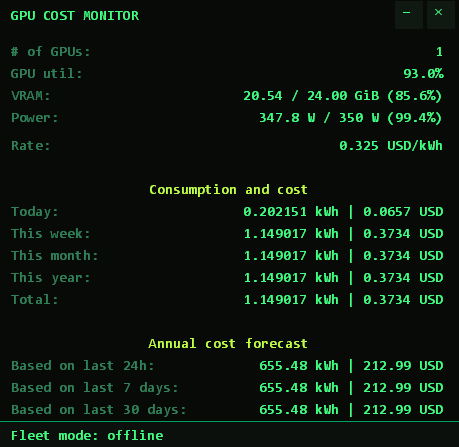
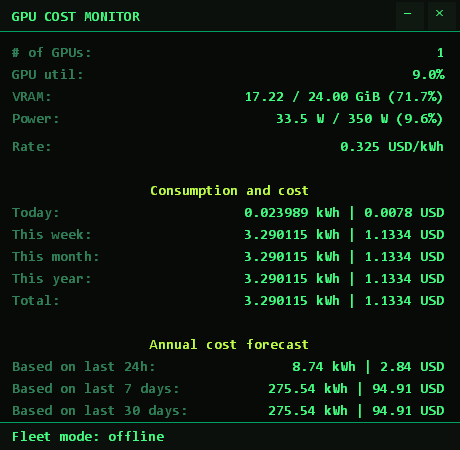
Add files via upload

diff --git a/README.md b/README.md
@@ -1,16 +1,8 @@
 # GPU Cost Monitor
 
 A native Windows x64 desktop application (C++17, Win32 API) that monitors
-GPU utilization, VRAM, and power draw of a single or multiple machines in 
-real time and tracks the electricity cost of GPU usage.
-
-## Screenshots
-
-### Main Window
-![GPU Cost Monitor Main Window](screenshots/main_interface.png)
-
-### Options
-![GPU Cost Monitor Statistics](screenshots/options_interface.png)
+GPU utilization, VRAM, and power draw in real time and tracks the
+electricity cost of GPU usage of a single or multiple machines.
 
 ## Features
 
@@ -37,43 +29,21 @@ real time and tracks the electricity cost of GPU usage.
 
 ## User interface
 
+- **Drag** the title bar to move the window (the window is fixed-size).
 - **Right-click** opens the menu:
-  - **Options...** — electricity rate, currency, REST API enable/port/
+  - **Settings...** — electricity rate, currency, REST API enable/port/
     password, fleet monitoring (server/client), launch at startup,
     always on top, show graph, reset cost records
   - **Export to Excel** — writes `data\gpu_cost_export.xlsx` (a real XLSX;
     falls back to CSV if XLSX writing fails)
   - **About** — shows version, copyright, and donation info
   - **Exit**
-- **—** minimizes, **✕** hides.
-- App lives in system tray
-
-## Data files
-
-`data\minute_stats.csv` and `data\hourly_stats.csv` share the schema:
-
-```
-timestamp,ip_address,gpu_count,gpu_usage_percent,vram_usage_percent,energy_kwh,electricity_rate,cost
-```
-
-- `timestamp` — start of the minute (unix seconds)
-- `ip_address` — source of the data: `127.0.0.1` for the local app, or the
-  client IP for fleet data
-- `gpu_count` — number of GPUs contributing to the record
-- `gpu_usage_percent` — average GPU utilization over the minute
-- `vram_usage_percent` — average VRAM usage over the minute
-- `energy_kwh` — energy consumed during the minute (kWh)
-- `electricity_rate` — rate in effect when the energy was consumed
-- `cost` — energy_kwh × electricity_rate
-
-Completed minutes are appended to `minute_stats.csv`. When the hour rolls
-over, the previous hour's minutes are aggregated into `hourly_stats.csv` and
-archived (crash-safe: the hourly record is written before minutes are
-deleted; unfinished aggregations are recovered on startup).
+  - **—** minimizes, **✕** hides.
+  - App lives in system tray.
 
 ## Configuration
 
-`config.json` (created on first options save):
+`config.json` (created on first settings save):
 
 ```json
 {
@@ -111,7 +81,7 @@ deleted; unfinished aggregations are recovered on startup).
 
 ## REST API
 
-Enable in Options (or set `api_enabled: true` in `config.json`). Binds to
+Enable in Settings (or set `api_enabled: true` in `config.json`). Binds to
 `127.0.0.1` only (loopback; not reachable from other machines). Connections
 are handled sequentially; all responses are JSON with
 `Content-Type: application/json`.
@@ -123,10 +93,10 @@ Every request may carry a `password` parameter:
 - **GET** requests: query parameter `?password=<password>`
 - **POST** requests: JSON body field `"password": "<password>"`
 
-When a password is configured (Options → "API password"), requests with a
+When a password is configured (Settings → "API password"), requests with a
 missing or mismatching password are rejected with **401**. When no password
 is configured, requests are accepted without authentication. Password
-changes in Options apply live (read per request).
+changes in Settings apply live (read per request).
 
 ### Endpoints
 
@@ -260,7 +230,7 @@ curl -X POST http://127.0.0.1:18744/gcm_rate -d "{\"rate\":0.15,\"password\":\"s
 
 ## Fleet monitoring
 
-Enable in Options ("Enable fleet monitoring"). A small line-based TCP
+Enable in Settings ("Enable fleet monitoring"). A small line-based TCP
 protocol lets a "client" machine stream its GPU stats to a "server" machine
 once per second. The server aggregates the data from all connected clients
 (summing power / energy / GPU counts) so it can display and persist
